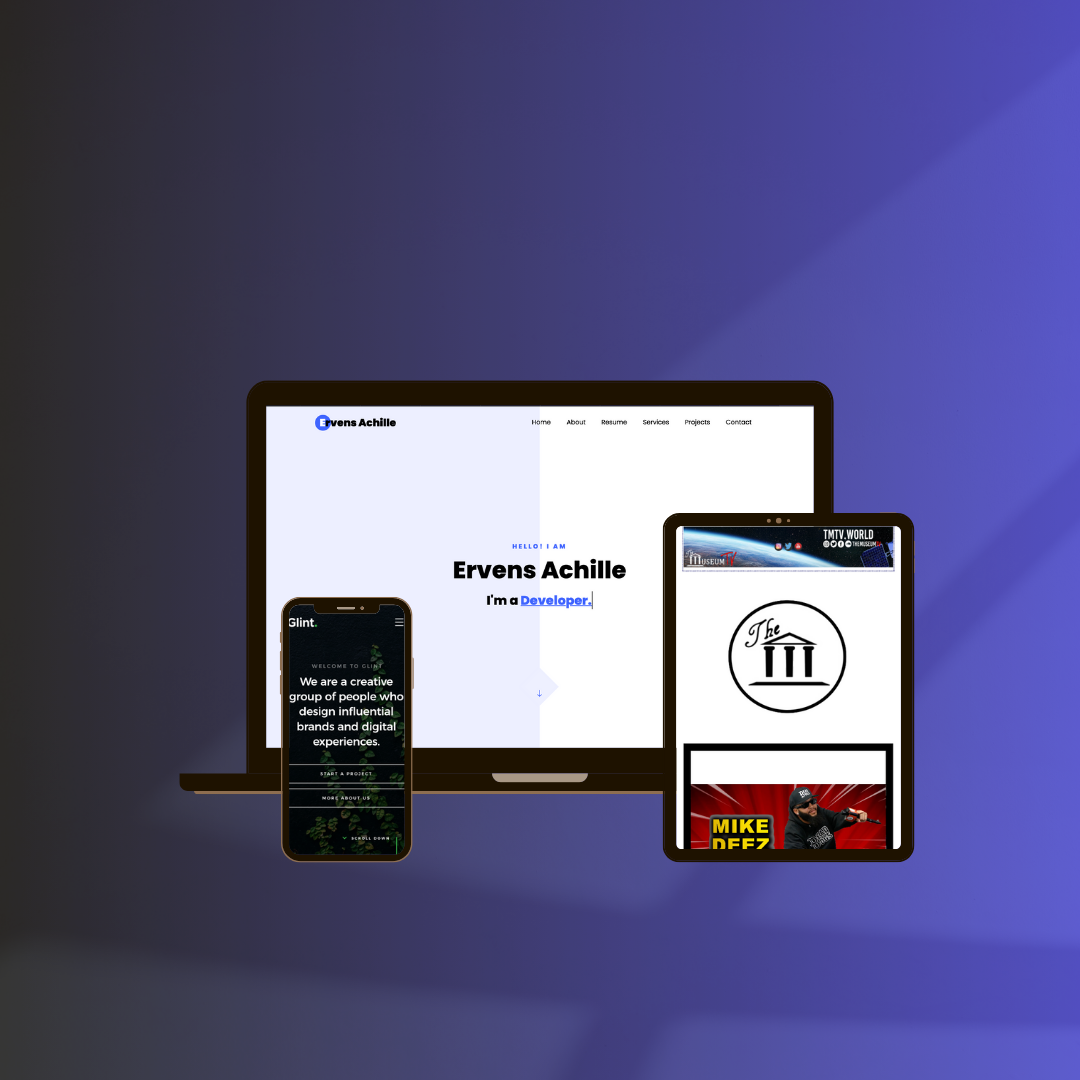
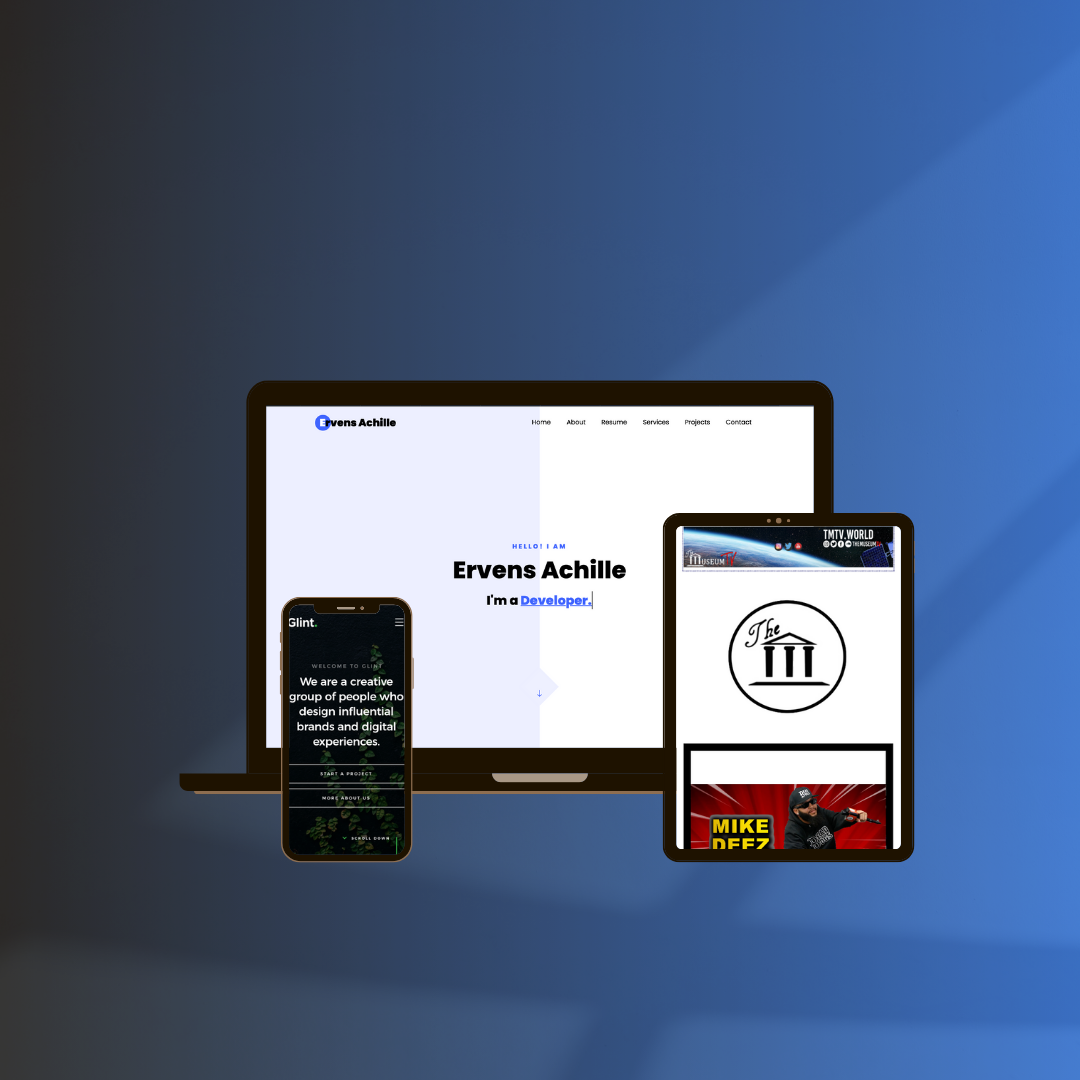
animations

Changed region(s): [[0.7639, 0.0, 1.0, 1.0]]

diff --git a/index.html b/index.html
@@ -615,57 +615,66 @@
         </div>
       </div>
       <!-- Platforms Grid -->
-      <div class="mt-24 text-center">
-        <h3 class="text-3xl font-bold text-gray-900 mb-4">
-          Platforms I Specialize In
-        </h3>
-        <p class="text-gray-600 mb-10 text-lg">
-          Flexible solutions tailored to your business using trusted
-          platforms.
-        </p>
+<div class="mt-24 text-center">
+  <h3 class="text-3xl font-bold text-gray-900 mb-4">
+    Platforms I Specialize In
+  </h3>
+  <p class="text-gray-600 mb-10 text-lg">
+    Flexible solutions tailored to your business using trusted platforms.
+  </p>
 
-        <div class="grid grid-cols-2 sm:grid-cols-3 lg:grid-cols-6 gap-8 items-center justify-center">
-          <!-- WordPress -->
-          <div class="flex flex-col items-center">
-            <img src="https://cdn.jsdelivr.net/gh/devicons/devicon/icons/wordpress/wordpress-plain.svg"
-              alt="WordPress logo" class="h-12 w-auto mb-2" loading="lazy" />
-            <span class="text-sm text-gray-700">WordPress</span>
-          </div>
+  <div class="grid grid-cols-2 sm:grid-cols-3 lg:grid-cols-6 gap-8 items-center justify-center">
+    
+    <!-- WordPress -->
+    <div class="platform flex flex-col items-center opacity-0 translate-y-5 animate-float transition-all duration-500 hover:scale-110 hover:drop-shadow-lg"
+         style="transition-delay: 0.1s;">
+      <img src="https://cdn.jsdelivr.net/gh/devicons/devicon/icons/wordpress/wordpress-plain.svg"
+           alt="WordPress logo" class="h-12 w-auto mb-2" loading="lazy" />
+      <span class="text-sm text-gray-700">WordPress</span>
+    </div>
 
-          <!-- Wix -->
-          <div class="flex flex-col items-center">
-            <img src="https://static.cdnlogo.com/logos/w/95/wix-com-website.svg" alt="Wix logo" class="h-8 w-auto mb-2"
-              loading="lazy" />
-            <span class="text-sm text-gray-700">Wix</span>
-          </div>
+    <!-- Wix -->
+    <div class="platform flex flex-col items-center opacity-0 translate-y-5 animate-float-reverse transition-all duration-500 hover:scale-110 hover:drop-shadow-lg"
+         style="transition-delay: 0.2s;">
+      <img src="https://static.cdnlogo.com/logos/w/95/wix-com-website.svg"
+           alt="Wix logo" class="h-8 w-auto mb-2" loading="lazy" />
+      <span class="text-sm text-gray-700">Wix</span>
+    </div>
 
-          <!-- Shopify -->
-          <div class="flex flex-col items-center">
-            <img src="https://cdn.worldvectorlogo.com/logos/shopify.svg" alt="Shopify logo" class="h-12 w-auto mb-2"
-              loading="lazy" />
-            <span class="text-sm text-gray-700">Shopify</span>
-          </div>
+    <!-- Shopify -->
+    <div class="platform flex flex-col items-center opacity-0 translate-y-5 animate-float transition-all duration-500 hover:scale-110 hover:drop-shadow-lg"
+         style="transition-delay: 0.3s;">
+      <img src="https://cdn.worldvectorlogo.com/logos/shopify.svg"
+           alt="Shopify logo" class="h-12 w-auto mb-2" loading="lazy" />
+      <span class="text-sm text-gray-700">Shopify</span>
+    </div>
 
-          <!-- Ecwid -->
-          <div class="flex flex-col items-center">
-            <img src="img/Ecwid.svg" alt="Ecwid logo" class="h-12 w-auto mb-2" loading="lazy" />
-            <span class="text-sm text-gray-700">Ecwid</span>
-          </div>
+    <!-- Ecwid -->
+    <div class="platform flex flex-col items-center opacity-0 translate-y-5 animate-float-reverse transition-all duration-500 hover:scale-110 hover:drop-shadow-lg"
+         style="transition-delay: 0.4s;">
+      <img src="img/Ecwid.svg" alt="Ecwid logo" class="h-12 w-auto mb-2" loading="lazy" />
+      <span class="text-sm text-gray-700">Ecwid</span>
+    </div>
 
-          <!-- HTML5 -->
-          <div class="flex flex-col items-center">
-            <img src="https://cdn.jsdelivr.net/gh/devicons/devicon/icons/html5/html5-original.svg" alt="HTML5 logo"
-              class="h-12 w-auto mb-2" loading="lazy" />
-            <span class="text-sm text-gray-700">HTML5</span>
-          </div>
+    <!-- HTML5 -->
+    <div class="platform flex flex-col items-center opacity-0 translate-y-5 animate-float transition-all duration-500 hover:scale-110 hover:drop-shadow-lg"
+         style="transition-delay: 0.5s;">
+      <img src="https://cdn.jsdelivr.net/gh/devicons/devicon/icons/html5/html5-original.svg"
+           alt="HTML5 logo" class="h-12 w-auto mb-2" loading="lazy" />
+      <span class="text-sm text-gray-700">HTML5</span>
+    </div>
 
-          <!-- Squarespace -->
-          <div class="flex flex-col items-center">
-            <img src="img/squarespace-svgrepo-com.svg" alt="Squarespace logo" class="h-10 w-auto mb-2" loading="lazy" />
-            <span class="text-sm text-gray-700">Squarespace</span>
-          </div>
-        </div>
-      </div>
+    <!-- Squarespace -->
+    <div class="platform flex flex-col items-center opacity-0 translate-y-5 animate-float-reverse transition-all duration-500 hover:scale-110 hover:drop-shadow-lg"
+         style="transition-delay: 0.6s;">
+      <img src="img/squarespace-svgrepo-com.svg"
+           alt="Squarespace logo" class="h-10 w-auto mb-2" loading="lazy" />
+      <span class="text-sm text-gray-700">Squarespace</span>
+    </div>
+
+  </div>
+</div>
+
     </div>
   </section>
 

diff --git a/main.js b/main.js
@@ -146,8 +146,24 @@ document.addEventListener("DOMContentLoaded", () => {
   window.addEventListener("resize", updateImageProgress);
   updateImageProgress();
 });
+// Intersection Observer for platform icons
+// This script uses Intersection Observer to fade in platform icons as they come into view
+// It applies a fade-in effect to all platform icons with the class "platform"
+document.addEventListener("DOMContentLoaded", () => {
+  const platforms = document.querySelectorAll(".platform");
 
+  const observer = new IntersectionObserver(entries => {
+    entries.forEach(entry => {
+      if (entry.isIntersecting) {
+        entry.target.classList.remove("opacity-0", "translate-y-5");
+        entry.target.classList.add("opacity-100", "translate-y-0");
+        observer.unobserve(entry.target);
+      }
+    });
+  }, { threshold: 0.2 });
 
+  platforms.forEach((el) => observer.observe(el));
+});
 
 
 

diff --git a/tailwind.config.js b/tailwind.config.js
@@ -3,14 +3,25 @@ module.exports = {
     extend: {
       animation: {
         'fade-in-up': 'fadeInUp 0.8s ease-out both',
+        'float': 'float 3s ease-in-out infinite',
+        'float-reverse': 'floatReverse 3s ease-in-out infinite',
       },
       keyframes: {
         fadeInUp: {
           '0%': { opacity: 0, transform: 'translateY(20px)' },
           '100%': { opacity: 1, transform: 'translateY(0)' },
         },
+        float: {
+          '0%, 100%': { transform: 'translateY(0)' },
+          '50%': { transform: 'translateY(-6px)' },
+        },
+        floatReverse: {
+          '0%, 100%': { transform: 'translateY(0)' },
+          '50%': { transform: 'translateY(6px)' },
+        },
       },
     },
   },
   plugins: [],
 };
+
